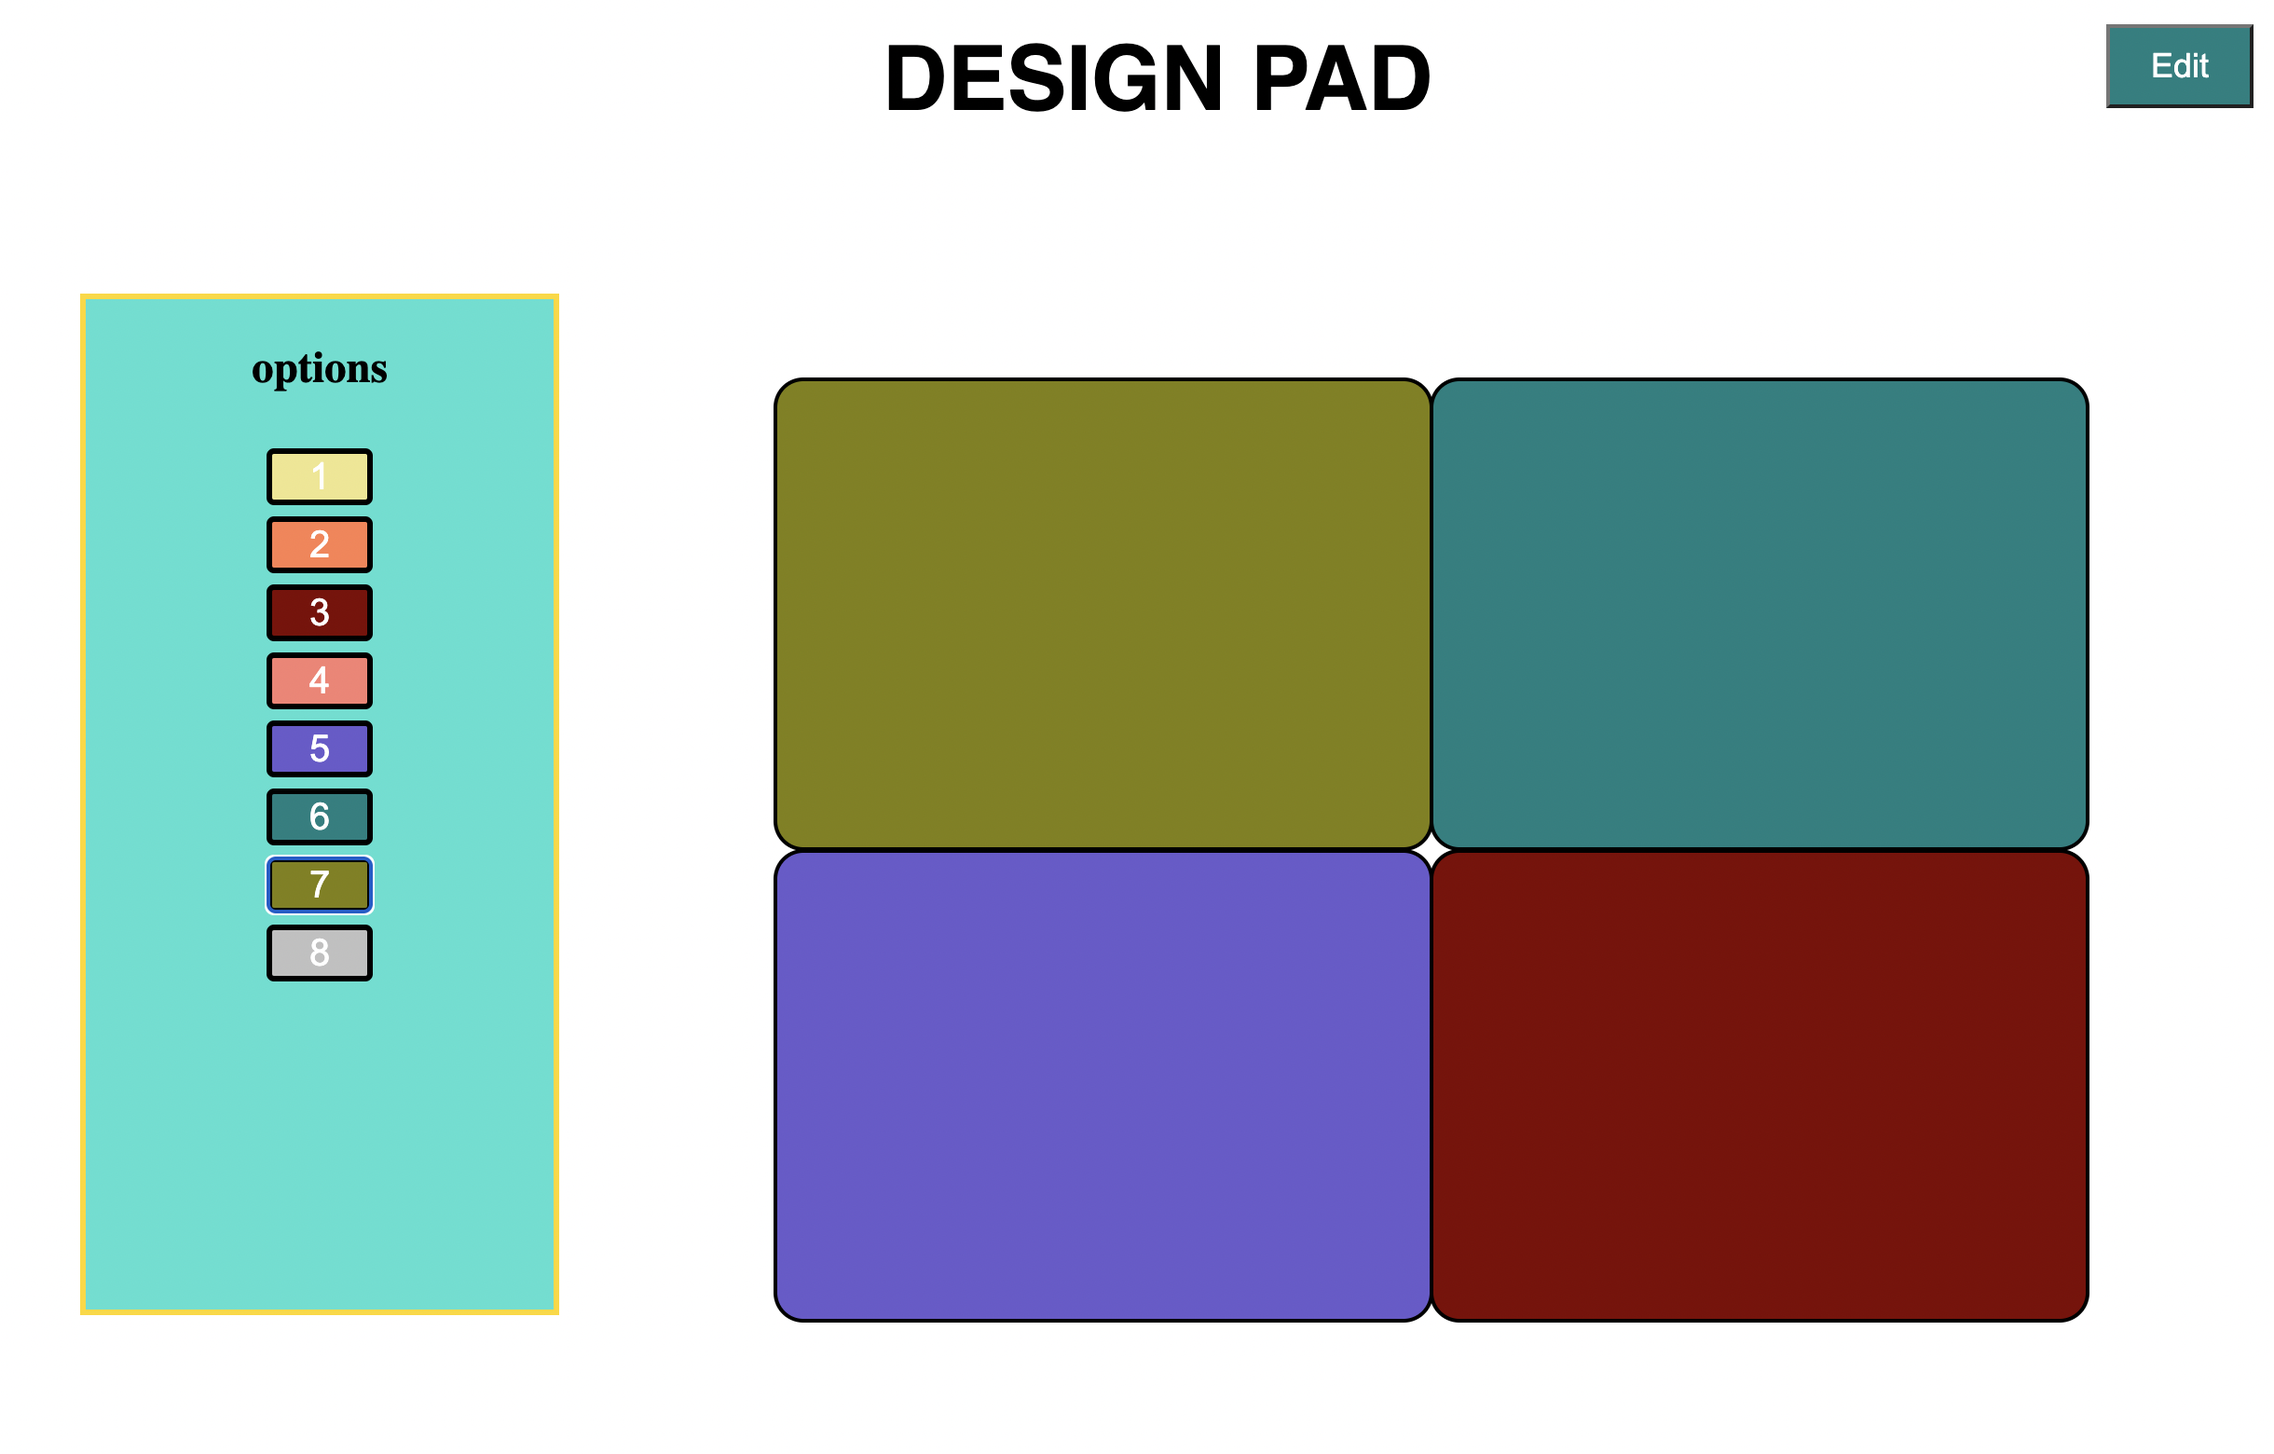
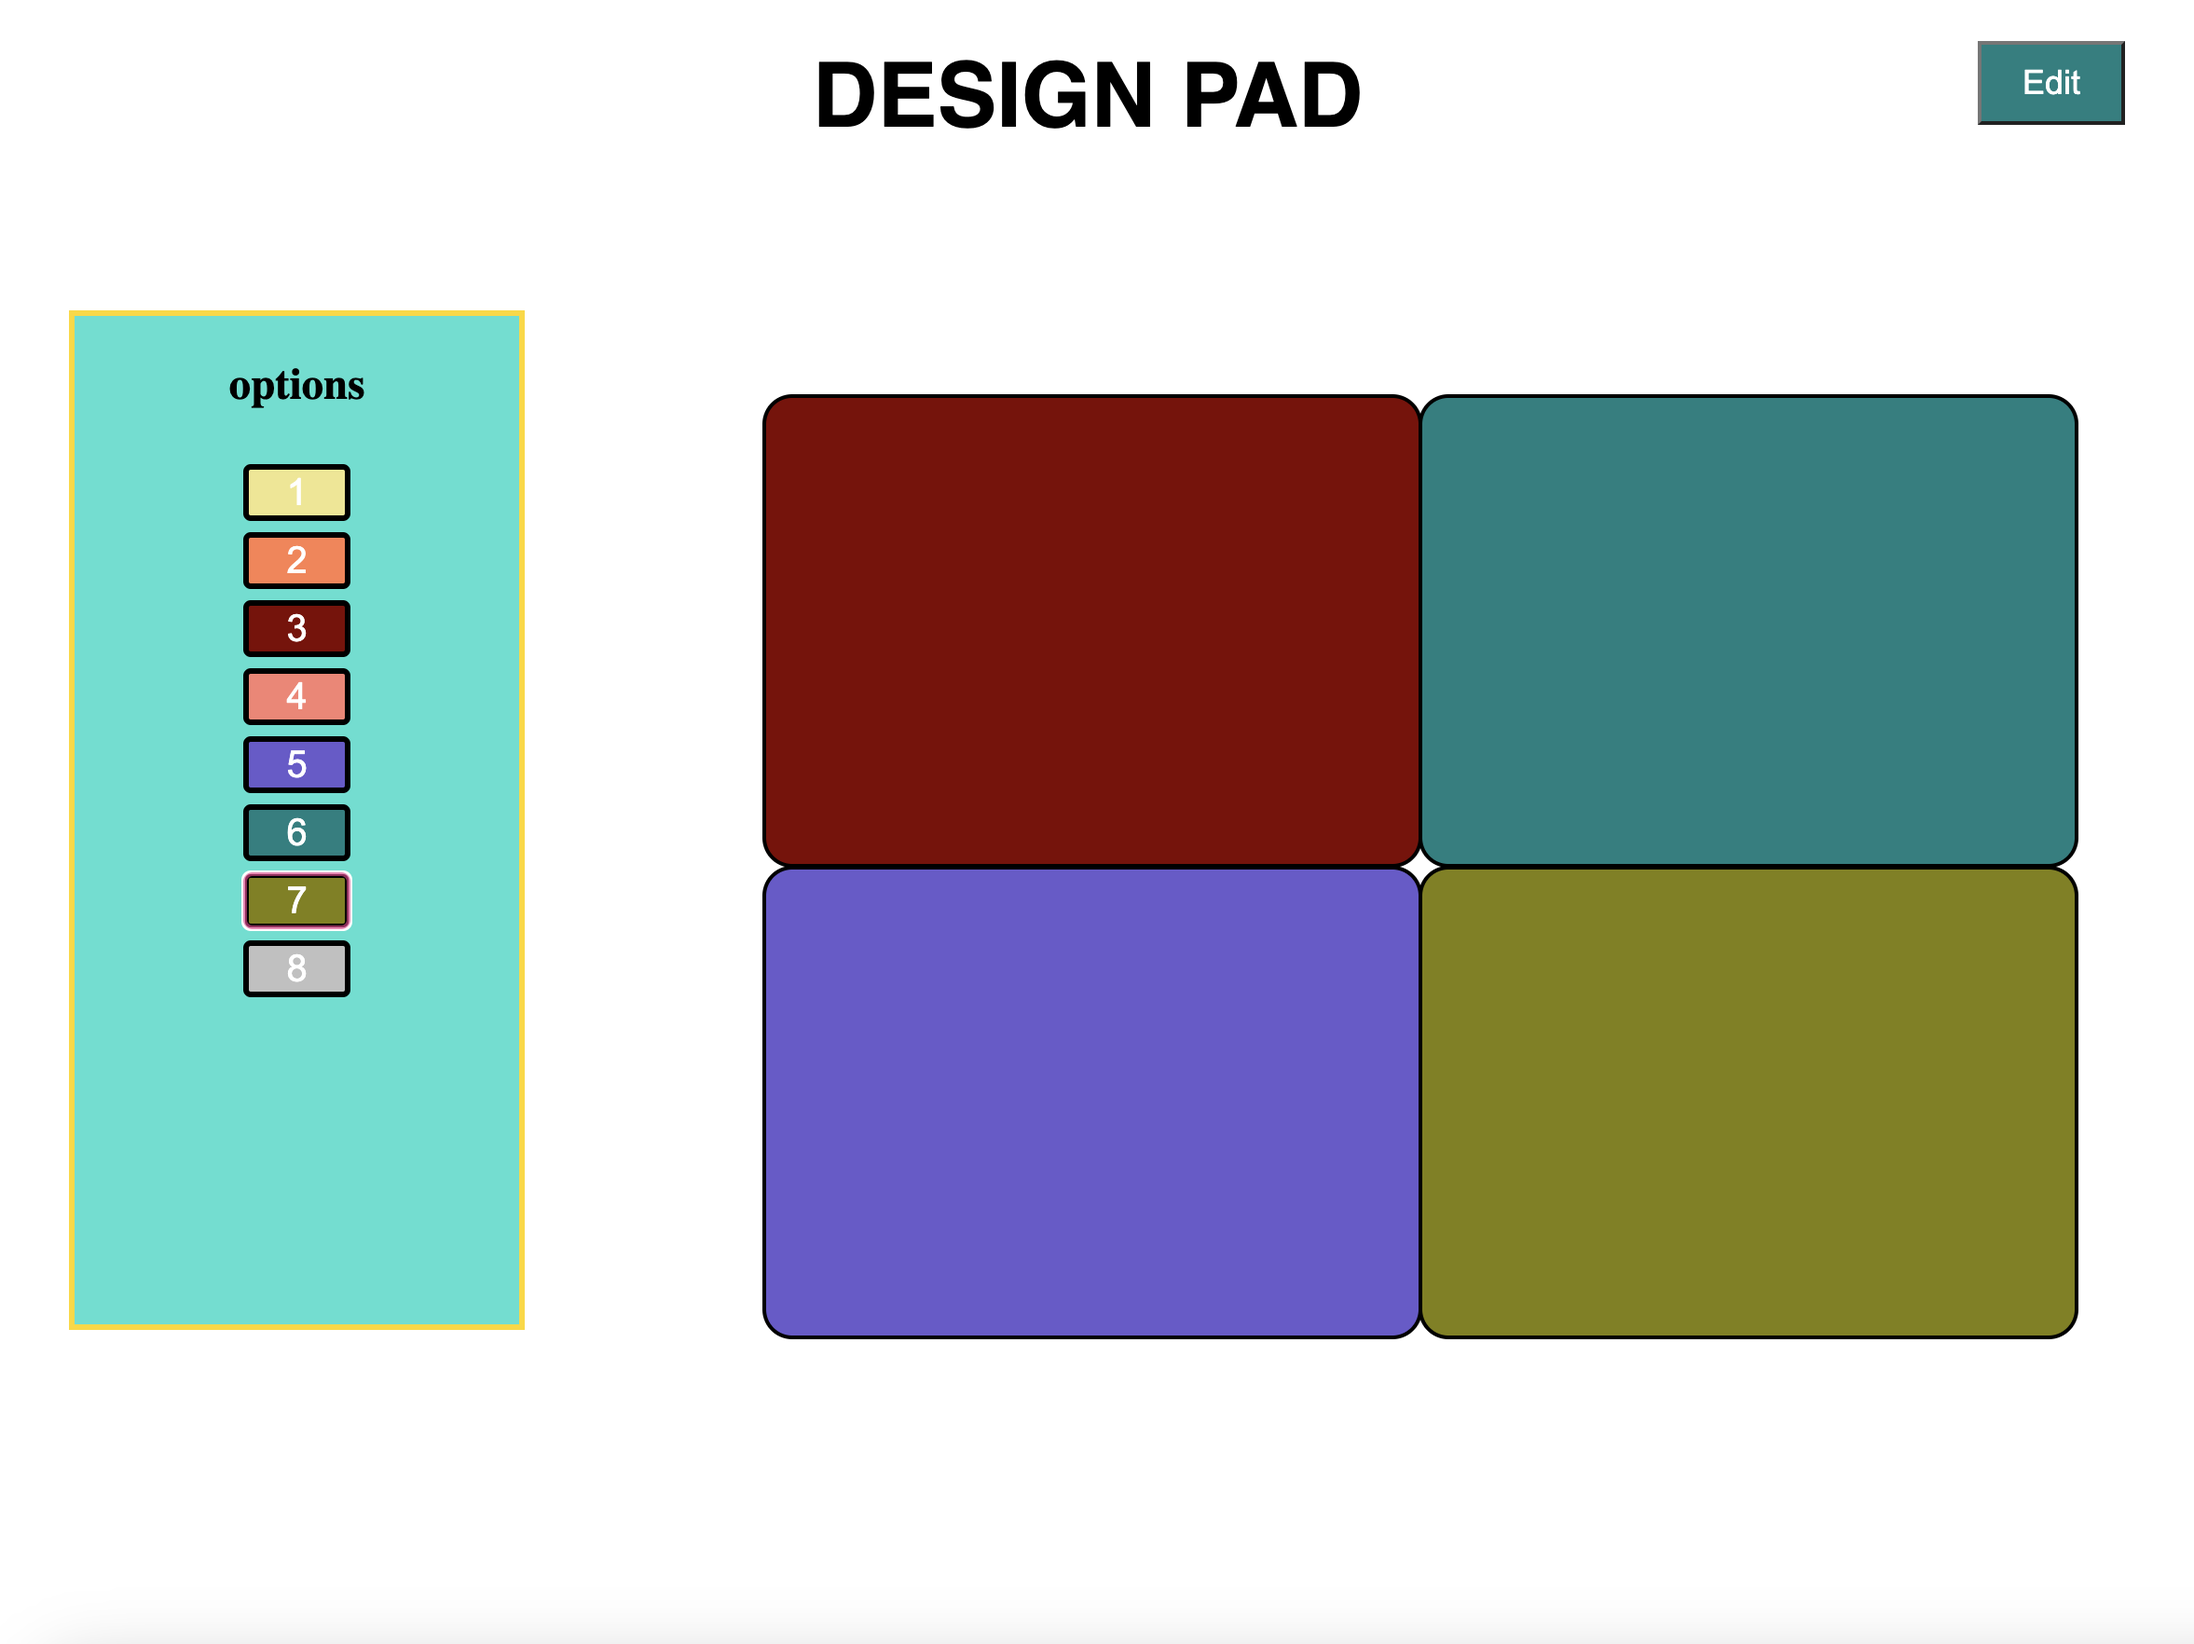
added designpad again to show group project

diff --git a/src/Routes/WorkPage.js b/src/Routes/WorkPage.js
@@ -1,6 +1,7 @@
 import Footer from '../Parts/Footer'
 import P3 from '../Visuals/P3.png'
 import P6 from '../Visuals/P6.png'
+import P8 from '../Visuals/P8.png'
 import { FontAwesomeIcon } from "@fortawesome/react-fontawesome";
 import { faGithub } from "@fortawesome/free-brands-svg-icons";
 import {FaReact, FaSass, FaHtml5, FaBootstrap} from "react-icons/fa"
@@ -49,9 +50,11 @@ const WorkPage = () => {
     </div>
        </div>
        <div className="face face2">
-         <div className="content">
-           <p>El Cazador Cafe located in Yonkers, NY</p>
-           <p>Solo project done for local business</p>
+         <div className="projectCards">
+           El Cazador Cafe located in Yonkers, NY
+           <br/>
+           Solo project done for local business
+           <br/>
            <a href="https://github.com/4lexmendez/restaurant"
         className="git">
         <FontAwesomeIcon icon={faGithub} size="2x" />
@@ -78,16 +81,16 @@ const WorkPage = () => {
 
 
 
-{/* Landing Page website */}
+{/* Landing Page website
 
     <section className="main-div main-div3"> 
     <header className="card">
        <div className="face face1">
-         <div className="content">     
+         <div className="content">      */}
          {/* Commented Out image for now until further notice */}
          {/* <a href="https://agency-beige.vercel.app/">
          <img src ={P2} width="300px" height="300px" alt="pro" /> </a> */}
-         <section className=" space-x-2 flex flex-row">
+         {/* <section className=" space-x-2 flex flex-row">
            <small>Tools: </small>
       <small>Placeholder For Now</small>
     </section>        
@@ -104,7 +107,7 @@ const WorkPage = () => {
          </div>
        </div>
     </header>
-    </section>
+    </section> */}
 
 
 
@@ -136,7 +139,7 @@ const WorkPage = () => {
          </div>
        </div>
        <div className="face face2">
-         <div className="content">
+       <div className="projectCards">
            <p>Gallery of the memories I've created with the girl of my dreams.</p>
            
            <a href="https://github.com/4lexmendez/LovingYears"
@@ -159,23 +162,28 @@ const WorkPage = () => {
 
 
 
-<section className="main-div main-div3"> 
+<section className="main-div main-div3">
     <header className="card">
        <div className="face face1">
          <div className="content">     
-         {/* Commented Out image for now until further notice */}
-         {/* <a href="https://agency-beige.vercel.app/">
-         <img src ={P2} width="300px" height="300px" alt="pro" /> </a> */}
+         {/* Commented Out image for now until further notice  */}
+          <a href="https://designp-4-d.vercel.app/">
+         <img src ={P8} width="300px" height="300px" alt="pro" /> </a> 
          <section className=" space-x-2 flex flex-row">
            <small>Tools: </small>
-      <small>Placeholder For Now</small>
+           <FaReact/>
+      <SiJavascript/>
+      <DiGit/>
+      
+      <FaHtml5/>
+      
     </section>        
          </div>
        </div>
        <div className="face face2">
-         <div className="content">
-         Empty Space
-           <br/> Placeholder for future project
+       <div className="projectCards">
+         Group Project
+           <br/>Change color of pad by editing, dragging and dropping.<br/>
            <a href="https://github.com/4lexmendez/agency"
         className="git">
         <FontAwesomeIcon icon={faGithub} size="2x" />

diff --git a/src/Parts/Bar.jsx b/src/Parts/Bar.jsx
@@ -67,11 +67,11 @@ const Bar = () => {
 
         <Navbar.Collapse id="responsive-navbar-nav">
           <Nav className="ms-auto" defaultActiveKey="#home">
-            <Nav.Item>
+            {/* <Nav.Item>
               <Nav.Link as={Link} to="/" onClick={() => updateExpanded(false)}>
                Home
               </Nav.Link>
-            </Nav.Item>
+            </Nav.Item> */}
 
             <Nav.Item>
               <Nav.Link
@@ -100,7 +100,7 @@ const Bar = () => {
                 to="/work"
                 onClick={() => updateExpanded(false)}
               >
-                 Work 
+                 Projects 
               </Nav.Link>
             </Nav.Item>
 

diff --git a/src/style.css b/src/style.css
@@ -1,4 +1,4 @@
-.contextt
+
 
 
   .sticky {
@@ -125,8 +125,13 @@
   .navbar-nav .nav-item a:hover::after {
     width: 100%;
   }
+
   
-  
+
+
+
+
+
 
 
 
@@ -734,4 +739,12 @@ padding: 20px; }
       border-radius: 100%;
   }
 
+}
+
+.projectCards {
+  
+  text-align: center;
+  color: #fff;
+  font-size: 15px;
+  
 }

diff --git a/src/Routes/Home.jsx b/src/Routes/Home.jsx
@@ -58,18 +58,7 @@ export const Home = () => {
 </motion.div>
 
 
-{/* <motion.div
-  animate={{ x: -20, y: 30, opacity: 1 }}
-  transition={{
-    delay: 2,
-    x: { type: "spring", stiffness: 1000 },
-    default: { duration: 2 },
-  }}
->
-    <h3>Web Developer</h3>
-    
-    
-</motion.div> */}
+
 
 
 
